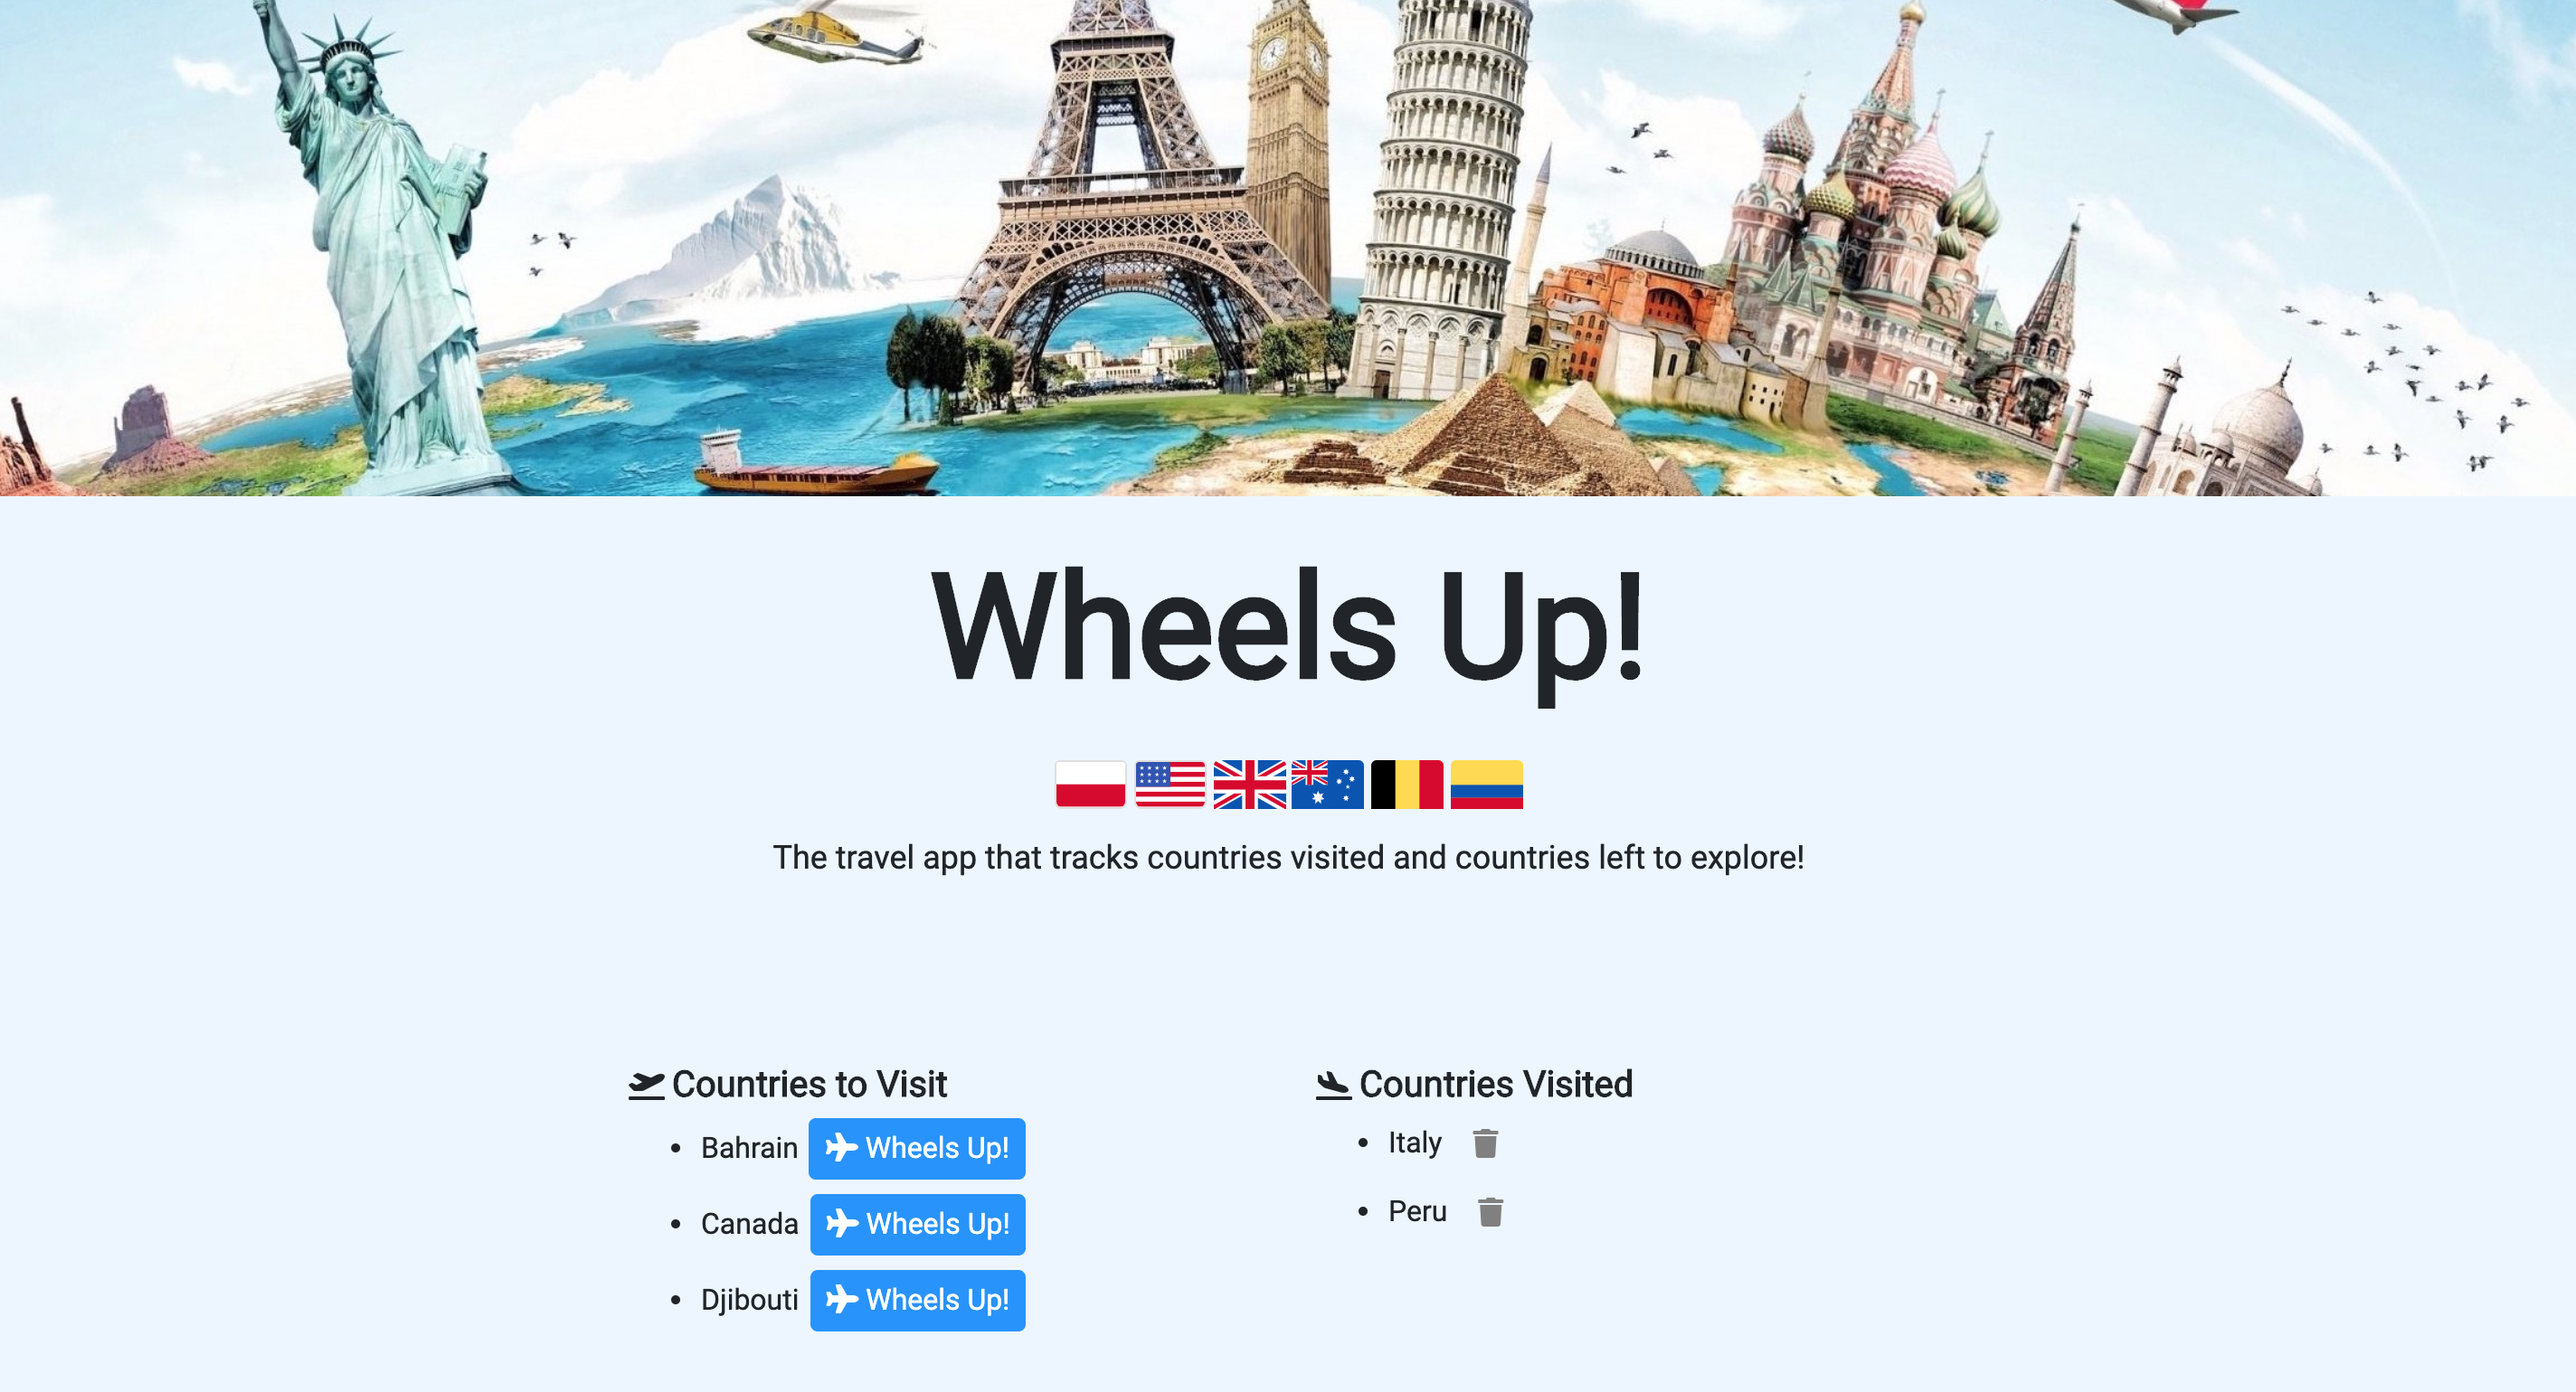
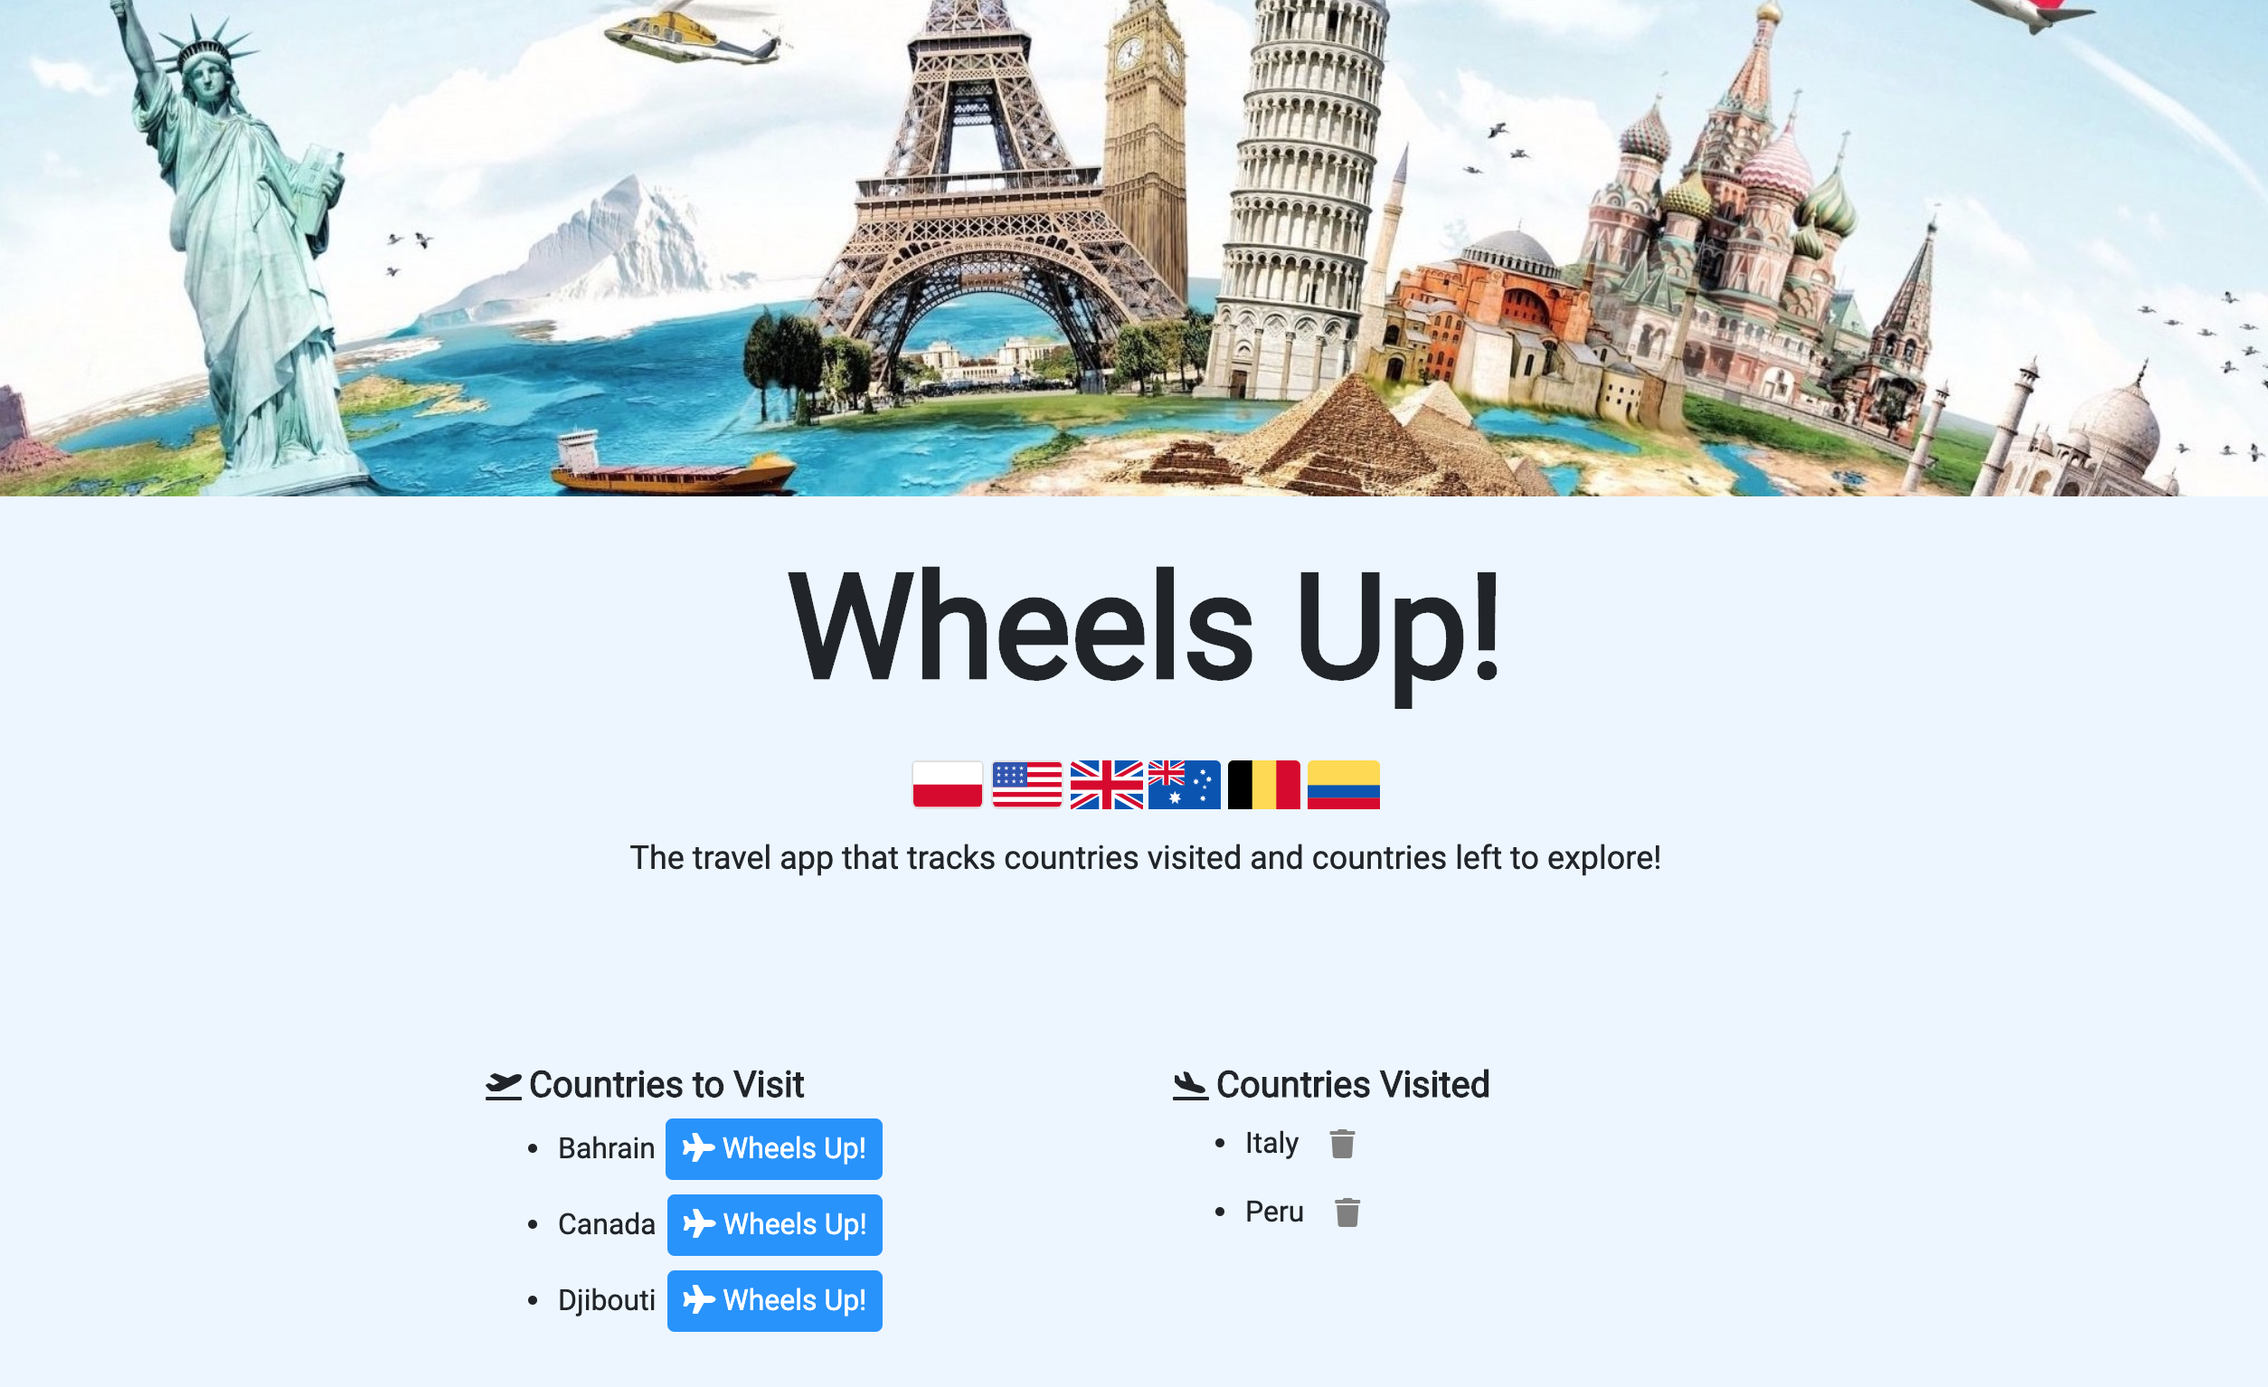
resized wheels up image

diff --git a/portfolio.html b/portfolio.html
@@ -51,16 +51,16 @@
                         <div class="row no-gutters">
                         <div class="col-md-5 p-3">
                             <a href="https://tribeofbenjamin.github.io/InspirationalToDo/"><img src="assets/images/wheels-up.png"
-                            class="card-img img-fluid" alt="Inspirational Todo Screenshot"></a>
-                            <a href="https://tribeofbenjamin.github.io/InspirationalToDo/"> Deploy</a>
+                            class="card-img img-fluid" alt="Wheels Up Screenshot"></a>
+                            <a href="https://wheels-up.herokuapp.com/"> Deploy</a>
                             <br>
-                            <a href="https://github.com/TribeOfBenjamin/InspirationalToDo"> GitHub</a>
+                            <a href="https://github.com/TribeOfBenjamin/Wheels-Up"> GitHub</a>
                         </div>
                         <div class="col-md-7">
                             <div class="card-body">
-                            <h5 class="card-title">Inspirational Todo List</h5>
-                            <p class="card-text">A useful todo list which motivates you to do more and be better by being more like Kanye West. It also uses geolocation to display the current weather for the user and informs the user of the day's holiday if there is one. Had a fun time working on it with my team members!</p>
-                            <p class="card-text"><small class="text-muted">Date completed: 05/16/2020</small></p>
+                            <h5 class="card-title">Wheels Up</h5>
+                            <p class="card-text">This application allows users to lookup countries to visit, track countries they have visited and want to visit in the future. Users can search for countries and see more information about that country (flag image, currency, language, etc.). Users can make notes about their travels or travel plans at the bottom of the app as well.</p>
+                            <p class="card-text"><small class="text-muted">Date completed: 07/16/2020</small></p>
                             </div>
                         </div>
                         </div>
